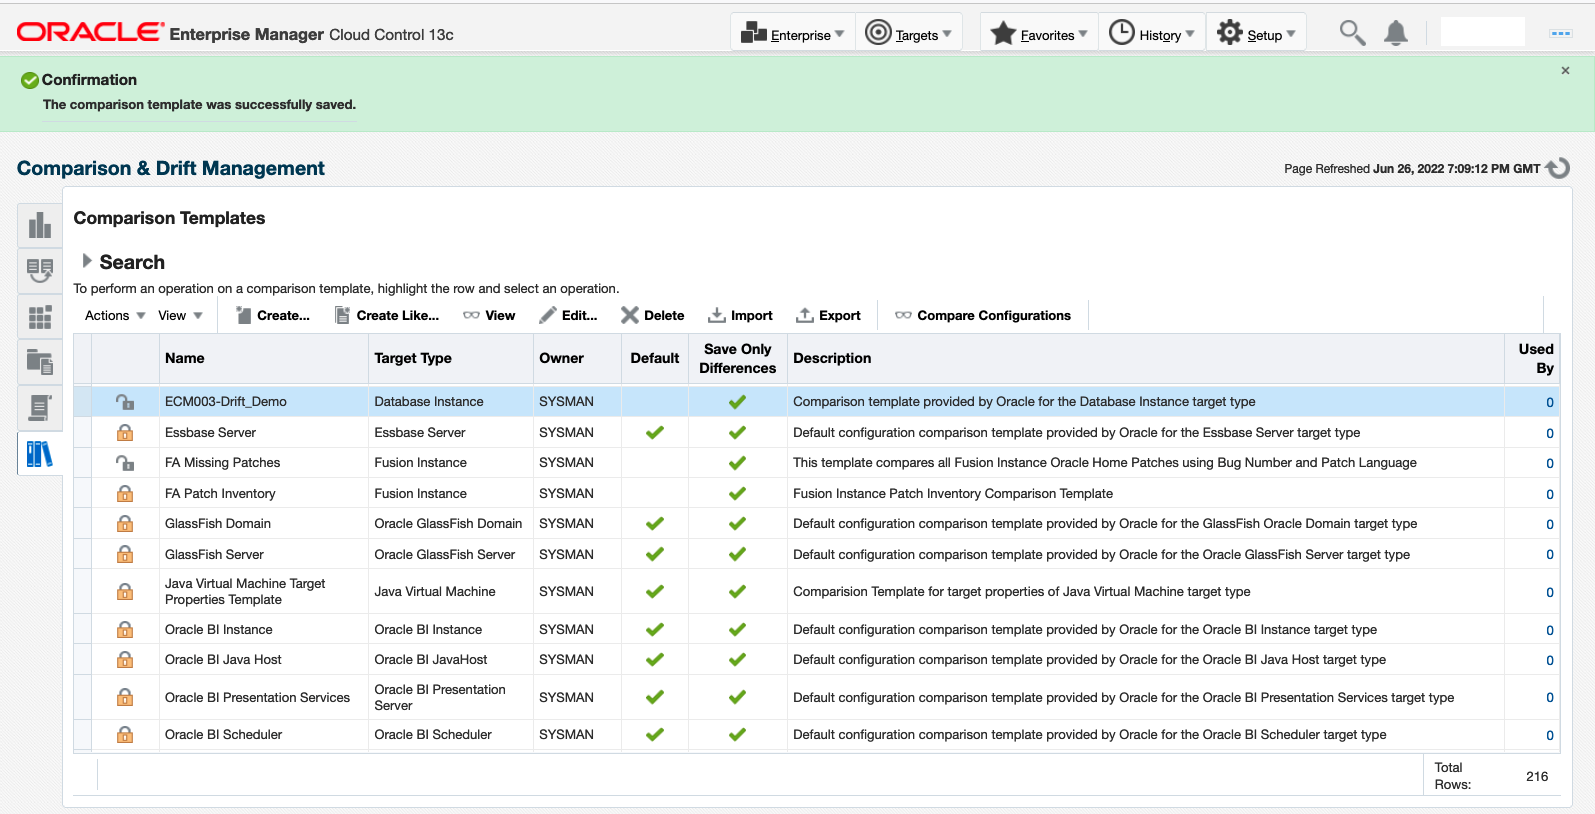
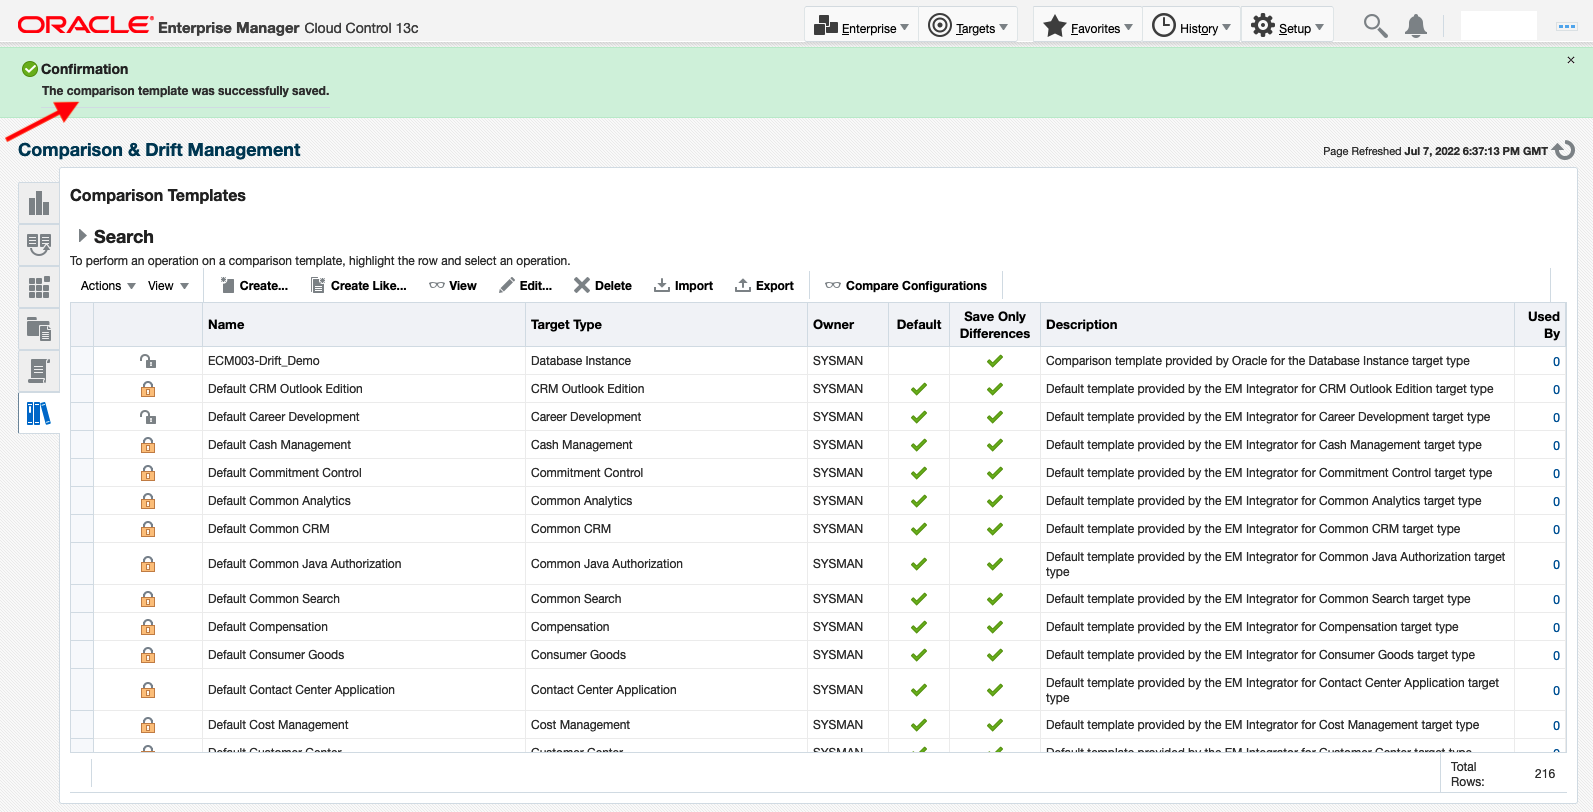
Update screen shots

Changed region(s): [[0.0, 0.0, 1.0, 1.0], [0.9535, 0.585, 0.9843, 0.6158]]

diff --git a/enterprise-manager/emcc-new/em-configuration-compliance-management/em-configuration-compliance-management.md b/enterprise-manager/emcc-new/em-configuration-compliance-management/em-configuration-compliance-management.md
@@ -263,7 +263,7 @@ In this workshop, you will learn about continuous configuration drift monitoring
 
 8.  A new customized configuration drift monitoring template is created. This template can be used for drift monitoring.
 
-  ![](images/Compare_and_Drift_Demo_Image_9.png " ")
+  ![](images/Compare_And_Drift_Demo_image_9.png " ")
 
   **Search** with Template name **ECM003-Drift_Demo** shows with Confirmation page
 
